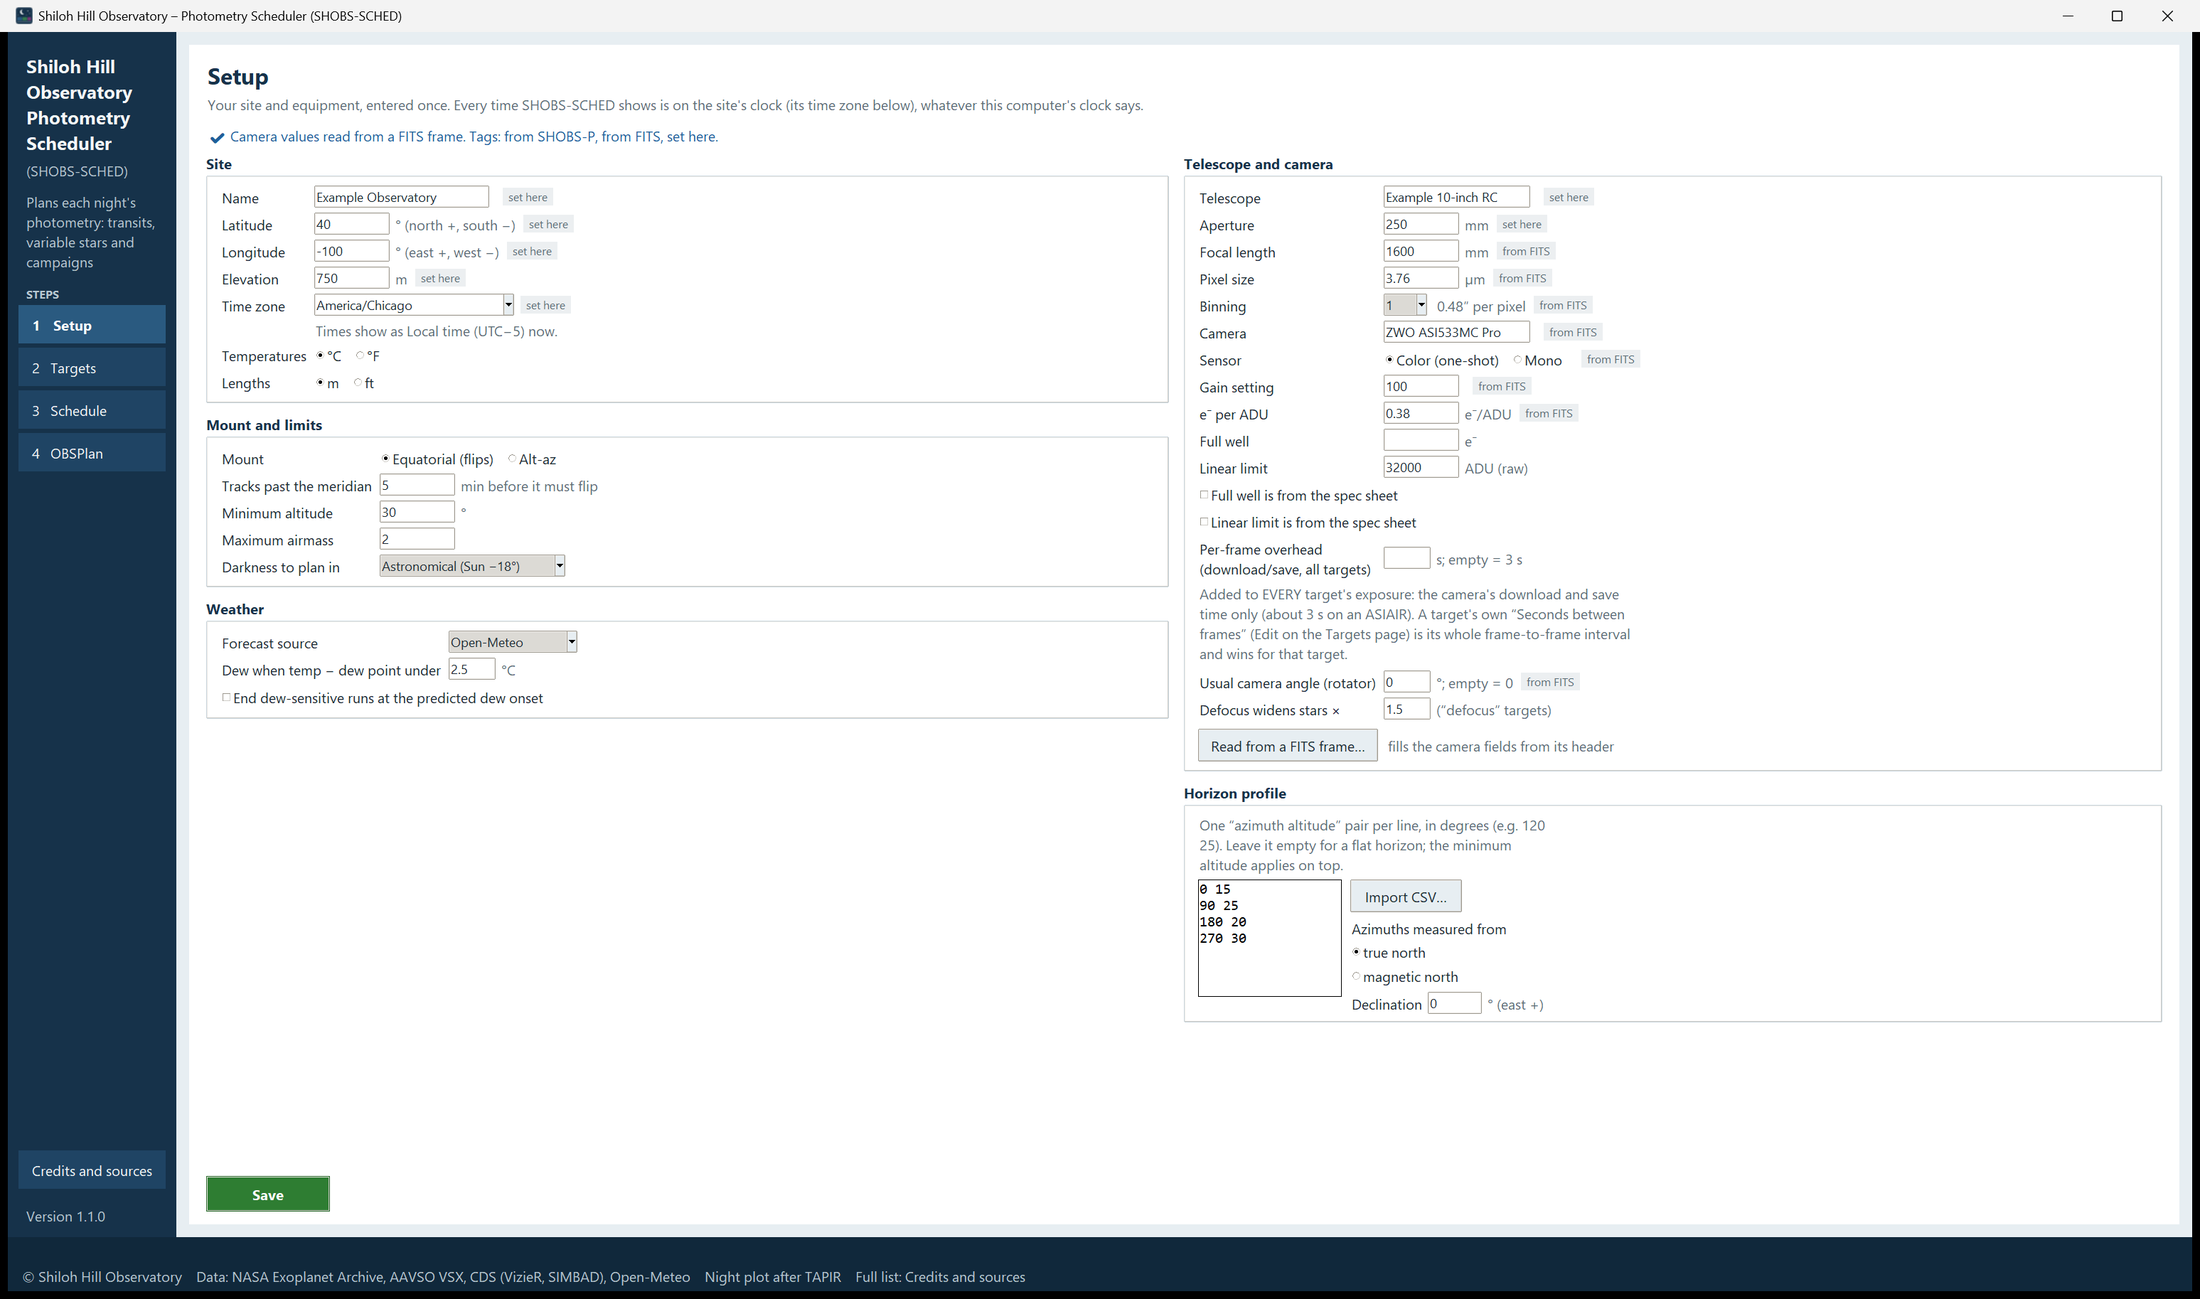
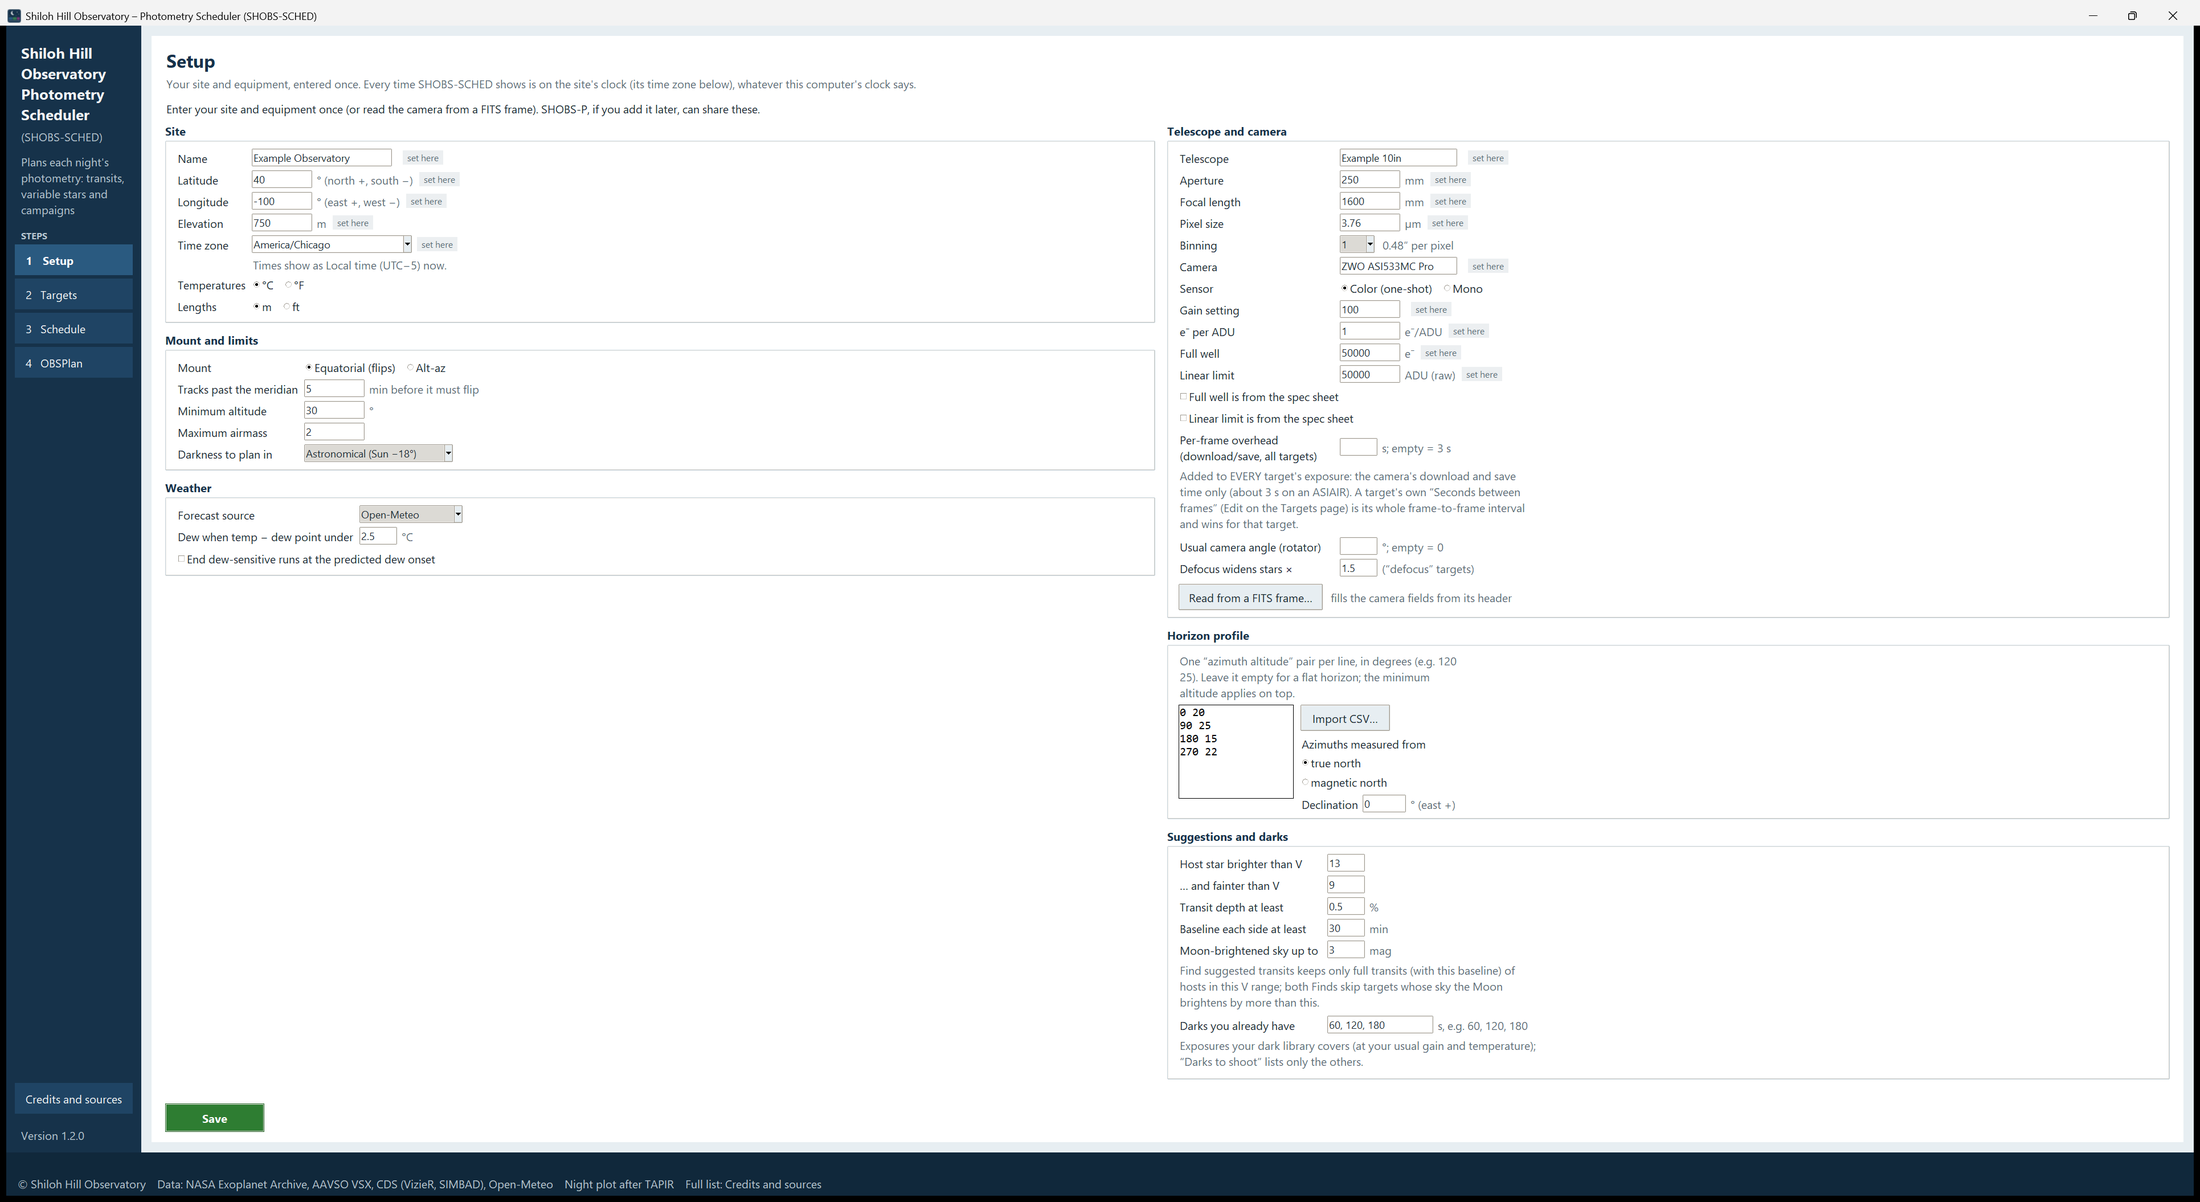
Manual 1.2.0: screenshots retaken on 1.2.0 (example site), new Find-transits and Remove shots, captions and shot list updated
Claude-Session: https://claude.ai/code/session_01FUz9tFr61RYDX7PGSTY7De

Changed region(s): [[0.0, 0.0, 1.0, 1.0], [0.5255, 0.0923, 0.7418, 0.8927]]

diff --git a/docs/manual/_shots.md b/docs/manual/_shots.md
@@ -1,4 +1,6 @@
-# Screenshots to take (SHOBS-SCHED manual)
+# Screenshots (SHOBS-SCHED manual, 1.2.0 edition)
+
+Retaken for 1.2.0 on 31 Oct 2026 (maximized window, resized to 2200 px wide). `04-fits-summary.png` and `02-create-shortcuts.png` are the 1.1.0 captures (only the sidebar version was updated on the first).
 
 Every image the manual refers to, with the window and state it should show. Take them on Windows, with the
 example site (Example Observatory, latitude 40.0, longitude −100.0, America/Chicago, a 0.25 m telescope). Never use
@@ -6,13 +8,13 @@ the real observatory's coordinates or name. Save as PNG in `docs/manual/img/` wi
 
 | File | Chapter | What it should show |
 |---|---|---|
-| `img/01-window-parts.png` | 1 | The whole main window on the Targets or Schedule page, with the sidebar ("Shiloh Hill / Observatory / Photometry / Scheduler", "(SHOBS-SCHED)", the tagline, STEPS 1–4, Credits and sources, Version 1.1.0), the white page area with its title and subtitle, and the status strip at the bottom (status line and credits line). Ideally labeled with arrows: sidebar, page title, page, status strip, busy-bar position. |
+| `img/01-window-parts.png` | 1 | The whole main window on the Targets or Schedule page, with the sidebar ("Shiloh Hill / Observatory / Photometry / Scheduler", "(SHOBS-SCHED)", the tagline, STEPS 1–4, Credits and sources, Version 1.2.0), the white page area with its title and subtitle, and the status strip at the bottom (status line and credits line). Ideally labeled with arrows: sidebar, page title, page, status strip, busy-bar position. |
 | `img/02-create-shortcuts.png` | 2 | The black console window of Create shortcuts.bat at the end of a first run: "Looking for a Python…", the "usable:" line, "Setting up SHOBS-SCHED's own Python environment…", the package check, and "Done. Start SHOBS-SCHED from the Desktop icon or the Start menu." |
 | `img/02-first-start.png` | 2 | SHOBS-SCHED on first start with no SHOBS-P installed: the Setup page, empty fields, the top line "Enter your site and equipment once (or read the camera from a FITS frame)…", the guessed time zone with its hint. |
 | `img/03-setup-saved.png` | 3 | The Setup page filled in for Example Observatory (40.0, −100.0, America/Chicago, 250 mm aperture), with "✔ Saved." beside the green Save button, and "set here" tags beside the typed fields. |
 | `img/03-targets-two.png` | 3 | The Targets page with WASP-12 b in the Transits box and DY Peg in the Variables box, both ticked ☑, their event columns filled; the result line "✔ Added DY Peg (VSX)." beside Add. |
 | `img/03-night-tab.png` | 3 | The Schedule page after Build schedule: a night tab selected, the night's line (dark, Moon, weather), the night plot with a green transit block and a navy variable block, and the nightly table with both rows; "✔ Built … nights" in the message line. |
-| `img/04-setup-page.png` | 4 | The whole Setup page in its two-column layout: Site and Telescope and camera on the left; Mount and limits, Horizon profile (a few az/alt lines) and Weather on the right; the source line at the top; Save at the bottom. |
+| `img/04-setup-page.png` | 4 | The whole Setup page in its two-column layout: Mount and limits and Weather on the left with Site; Telescope and camera, Horizon profile (a few az/alt lines) and Suggestions and darks (with darks on hand) on the right; the source line at the top; Save at the bottom. |
 | `img/04-fits-summary.png` | 4 | The Telescope and camera box right after Read from a FITS frame…: the "✔ Read the header of … Press Save to keep these values." summary with its "Changed:" list (old → new), and "from FITS" tags beside the filled fields. |
 | `img/05-targets-page.png` | 5 | The Targets page with several targets in all three boxes (a campaign with "This week" progress, transits with Night/Ingress/Mid/Egress, variables with "min …"/"any time"), a mix of ticked and unticked (gray) rows, one row selected with its details line, the Nights row, and the buttons at the bottom. |
 | `img/05-edit-dialog.png` | 5 | The Edit dialog for a campaign on a planet-host star (a made-up or public example such as HD 219134): Target and Observing fields, the "No data while a planet transits" part with the Archive result line, the ticked transiting planets, a grayed non-transiting planet, the window list, and Notes. |
@@ -21,4 +23,8 @@ the real observatory's coordinates or name. Save as PNG in `docs/manual/img/` wi
 | `img/07-obsplan-page.png` | 7 | The OBSPlan page: the night ticks, Print plan card with Include night plots ticked, the position-angle line, the ASIAIR export folder line, and one night of the on-screen card (date heading with Export to ASIAIR, Export to NINA and Copy ASIAIR list; the facts line; the table; Flats/Darks/Free time lists), with an "✔ ASIAIR: saved …" result line and its Open folder / Open in Notepad / Show file contents buttons. |
 | `img/07-plan-card-print.png` | 7 | The printed plan card open in a web browser: "Photometry plan, <dates>" title, the site line (Example Observatory, 40.000° N, 100.000° W), one night's facts and weather line, its night plot (print style), and the start of the nightly table. |
 | `img/08-busy-bar.png` | 8 | A close-up of the lower left of the main window during Build schedule: the back-and-forth busy bar in the status strip with "Building 7 nights…" beside it (a second shot with "Getting the forecast from Open-Meteo…" is welcome). |
-| `img/09-credits-page.png` | 9 | The Credits and sources page: "SHOBS-SCHED 1.1.0 © 2026 Shiloh Hill Observatory", the license line, the list (CATALOGS AND SERVICES first), Save credits as text… and Back. |
+| `img/09-credits-page.png` | 9 | The Credits and sources page: "SHOBS-SCHED 1.2.0 © 2026 Shiloh Hill Observatory", the license line, the list (CATALOGS AND SERVICES first), Save credits as text… and Back. |
+| `img/05-find-transits.png` | 5 | The Find suggested transits window: its text naming Setup's "Suggestions and darks" box and the values, Show at most, the Nights line, Search and Cancel. |
+| `img/05-remove-dialog.png` | 5 | The app's own Remove targets window: "Remove DY Peg from the list? …" with Remove and Cancel. |
+| `img/06-night-tab-lower.png` | 6 | A second night: a block with "stop by … at the latest", a transit whose Meridian reads "(flip)", its "⚠ Meridian flip during the transit" caution, the tab marked ⚠. |
+| `img/08-busy-bar-find.png` | 8 | The busy bar during Find suggested transits, showing the stage and its count ("…: the best with their most precise ephemeris… 8 of 37"). |

diff --git a/docs/manual/05-targets.md b/docs/manual/05-targets.md
@@ -17,7 +17,7 @@ This chapter covers:
 - **Find suggested transits…** and **Find suggested variables…**,
 - ephemeris precision, and how SHOBS-SCHED upgrades it for you.
 
-![The Targets page: Add a target and the Nights row at the top; the Campaigns box with HD 219134, the Transits box with suggested planets and WASP-12 b, and the Variables box with DY Peg selected; its details line and the Edit…, Remove, Keep and Find buttons at the bottom](img/05-targets-page.png)
+![The Targets page: Add a target and the Nights row at the top; the Campaigns box with HD 219134 (next blackout Tue 03 Nov), the Transits box with suggested planets and HAT-P-32 b ticked and selected (its Source now ✔ NEA), and the Variables box with suggestions and AB And ticked (✔ VizieR VSX); the details line, the "will be planned … Kept" line, and the Edit…, Remove, Keep and Find buttons at the bottom](img/05-targets-page.png)
 
 ## The three boxes
 
@@ -177,6 +177,9 @@ Some results need a word from you:
 - **Remove** removes the selected targets. A window titled **Remove targets** asks *Remove DY Peg from the list?
   Blocks already planned stay until you rebuild.*; press **Remove** to go ahead, or **Cancel**. The line then says
   *✔ Removed DY Peg.*
+
+  ![The Remove targets window: "Remove DY Peg from the list? Blocks already planned stay until you rebuild." with Remove and Cancel](img/05-remove-dialog.png)
+
 - **Edit…** (or double-click a row) opens the Edit dialog for one target.
 
 ### Blocks you locked or set by hand
@@ -294,6 +297,8 @@ your site.
    ephemeris… 12 of 50*.
 5. The result line says, for example, *✔ 12 suggested transits found, soonest first.*
 
+![The Find suggested transits window: what it searches, the filter values from Setup's "Suggestions and darks" box, Show at most 25, the nights Sat 31 Oct – Fri 06 Nov, and Search and Cancel](img/05-find-transits.png)
+
 The suggestions land **unticked** in the Transits box, among your own targets. Tick one to plan it (that keeps it
 too), or press **Keep** to keep it without planning it. Suggestions you neither ticked nor kept are replaced when
 you search again.
@@ -338,7 +343,7 @@ nights.
 4. The result line says, for example, *✔ 14 suggested variables found, soonest first.* The line under the boxes says
    how many catalog stars matched.
 
-![The Find suggested variables window: the first four types ticked, Period empty in days, Brightness 9 to 13, Amplitude at least 0.1, Show at most 25, and the nights Mon 02 Nov – Sun 08 Nov](img/05-find-variables.png)
+![The Find suggested variables window: the first four types ticked, Period empty in days, Brightness 9 to 13, Amplitude at least 0.1, Show at most 25, and the nights Sat 31 Oct – Fri 06 Nov with the Moon limit from Setup's "Suggestions and darks" box](img/05-find-variables.png)
 
 A star is suggested when, on at least one of the nights, it offers something you can catch:
 

diff --git a/docs/manual/06-schedule.md b/docs/manual/06-schedule.md
@@ -125,7 +125,7 @@ The Moon is given in the order the dark night meets it: whether it is up or down
 dawn. For example *Moon 62 % (down at dusk, rises 23:10)*, *Moon 48 % (up at dusk, sets 01:35)*, or, when it does not
 rise or set in the dark, *Moon 95 % (up all night)* or *Moon 3 % (down all night)*.
 
-![A night tab (Tue 03 Nov): the night's line and a ⚠ dew line, the weather strip above the night plot, the HAT-P-6 b transit selected and drawn bright, the nightly table with its notes, and the selected block's notes, cautions and buttons](img/06-night-tab.png)
+![A night tab (Sat 31 Oct): the night's line and a ⚠ dew line, the weather strip above the night plot, the HAT-P-32 b transit selected and drawn bright, DY Peg and the HD 219134 campaign, the nightly table with (est.) exposures and its notes, and the Flats and darks, Didn't fit (with Plan this instead) and Free time boxes](img/06-night-tab.png)
 
 ## The night plot
 
@@ -246,7 +246,7 @@ While a build or rebuild runs, these buttons wait: *⚠ Wait for the build to fi
 
 Under the table are three boxes.
 
-![The lower part of a night tab: the nightly table with the selected block's notes and cautions, the Lock, Remove, Move to night… (grayed for a transit), Edit times… and Status row, and the Flats and darks to shoot, Didn't fit, and why (with two Plan this instead buttons) and Free time boxes](img/06-night-tab-lower.png)
+![Another night (Tue 03 Nov, its tab marked ⚠): AB And with "stop by 21:04 at the latest", the WASP-12 b transit selected with its meridian time marked (flip) and the caution "⚠ Meridian flip during the transit (04:18)"; the Lock, Remove, Move to night… (grayed for a transit), Edit times… and Status row; and the Flats and darks, Didn't fit and Free time boxes](img/06-night-tab-lower.png)
 
 **Flats and darks to shoot.** For example *Flats: one set at the night's camera angle; a meridian flip's 180° turn
 needs no new flats*, and *Darks to shoot: 0.75 s, 45 s, 60 s*. A defocused target adds *flats at the defocus position

diff --git a/docs/manual/07-obsplan.md b/docs/manual/07-obsplan.md
@@ -15,7 +15,7 @@ This chapter covers:
 - **Export to NINA**,
 - the camera angle in both lists.
 
-![The OBSPlan page: the night ticks with their block counts, Print plan card and Include night plots, the position-angle line, the ASIAIR export folder, and the on-screen card for Mon 02 and Tue 03 Nov, each night with its Export to ASIAIR, Export to NINA and Copy ASIAIR list buttons; under Mon 02 Nov, an ASIAIR result line with Open folder, Open in Notepad and Show file contents](img/07-obsplan-page.png)
+![The OBSPlan page: the night ticks with their block counts, Print plan card and Include night plots, the position-angle line, the ASIAIR export folder, and the on-screen card for Sat 31 Oct to Mon 02 Nov, each night with its Export to ASIAIR, Export to NINA and Copy ASIAIR list buttons and its Moon facts ("down at dusk, rises 23:40"); under Sat 31 Oct, an ASIAIR result line with Open folder, Open in Notepad and Show file contents, and Darks "To shoot" leaving out the darks already on hand](img/07-obsplan-page.png)
 
 ## Choose the nights
 
@@ -72,7 +72,7 @@ pages if it fits on one.
 The card is saved as `plan_card.html` in SHOBS-SCHED's cache folder (chapter 2), replaced each time you print. If the
 browser does not open, the result line gives the file's full path so you can open it yourself.
 
-![The plan card open in a browser: the title "Photometry plan, Mon 02 Nov to Sun 08 Nov 2026", the site line, Mon 02 Nov's facts and weather, its night plot in print colors, the nightly table, and the Flats, Darks and Free time lists](img/07-plan-card-print.png)
+![The plan card open in a browser: the title "Photometry plan, Sat 31 Oct to Fri 06 Nov 2026", the site line, Sat 31 Oct's facts and weather, its night plot in print colors, the nightly table, and the Flats, Darks and Free time lists](img/07-plan-card-print.png)
 
 > **Tip:** Untick past nights before printing: the card is easier to use at the telescope with only the nights to
 > come.

diff --git a/docs/manual/03-first-night.md b/docs/manual/03-first-night.md
@@ -50,7 +50,7 @@ times; for a variable, its next timed minimum or maximum, or *any time* for a st
 transit marked *(partial)* is only partly in the dark; if a transit shows *none in the next 7 nights*, no part of any
 transit is in the dark this week. Pick another planet, or try **Find suggested transits…** (chapter 5).
 
-![The Targets page with WASP-12 b in Transits (next transit Sun 01 Nov, partial) and DY Peg in Variables (any time), both ticked](img/03-targets-two.png)
+![The Targets page with WASP-12 b in Transits (next transit Mon 02 Nov, ✔ NEA (most precise)) and DY Peg in Variables (any time), both ticked, and "✔ Added DY Peg (VSX)." beside Add](img/03-targets-two.png)
 
 ## Step 3: Build the schedule
 
@@ -80,7 +80,7 @@ or no dark time. A target that didn't fit, or a cloudy forecast, is listed on th
 Click a row (or a block on the plot) to pick it out. Read the notes: they say, for example, *Ingress 23:50, mid
 01:20, egress 02:50 (±1 min)* and *Start before the meridian and let it flip (~21:01); drop the pre-flip frames*.
 
-![The Mon 02 Nov tab: the night plot with the DY Peg block (20:48–22:48) and the WASP-12 b transit block (23:26–03:50), and the nightly table under it](img/03-night-tab.png)
+![The Mon 02 Nov tab: the night's line (Moon 35 %, down at dusk, rises 01:12) and a dew line, the night plot with the DY Peg block (20:48–22:48) and the WASP-12 b transit block, and the nightly table under it](img/03-night-tab.png)
 
 ## Step 4: Print the plan card
 

diff --git a/docs/manual/08-busy-bar-and-messages.md b/docs/manual/08-busy-bar-and-messages.md
@@ -36,7 +36,7 @@ Some things to know:
   planet… 291 of 302*), then checks the best of them again with each planet's most precise ephemeris (*Finding
   suggested transits: the best with their most precise ephemeris… 12 of 50*).
 
-![The busy bar with "Finding suggested transits… 290 of 302": the search has checked 290 of 302 planets](img/08-busy-bar-find.png)
+![The busy bar with "Finding suggested transits: the best with their most precise ephemeris… 8 of 37": the second pass of the search](img/08-busy-bar-find.png)
 
 - **Dialogs have their own busy bar.** The Edit dialog's planet lookup, for example, shows its busy bar at the
   **dialog's** lower left (*Looking up HD 219134's planets at the NASA Exoplanet Archive…*), so the main window stays

diff --git a/README.md b/README.md
@@ -78,7 +78,7 @@ Settings live in your home folder: `.shobs_sched_settings.json`, `.shobs_sched_t
 
 ## Documentation
 
-**[The SHOBS-SCHED User's Manual](docs/manual/README.md)** (written for version 1.1.0; the 1.2.0 changes are listed in the README above) walks you through the program step by
+**[The SHOBS-SCHED User's Manual](docs/manual/README.md)** (written for version 1.2.0; the 1.2.0 changes are listed in the README above) walks you through the program step by
 step: installing, your first night, the Setup, Targets, Schedule and OBSPlan pages, the busy bar and messages,
 troubleshooting and a glossary. A PDF of the whole manual can be built with `python tools/build_manual_pdf.py`.
 
